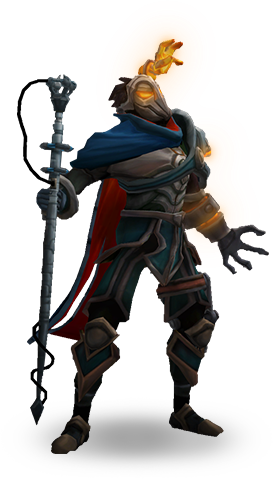
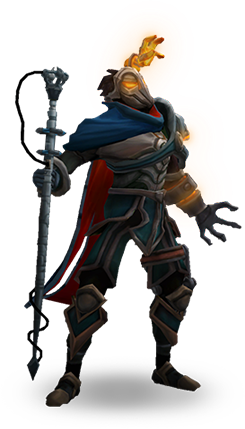
changed mid model size

diff --git a/public_html/bootstrap/css/games_league.css b/public_html/bootstrap/css/games_league.css
@@ -4638,7 +4638,7 @@ margin-top:20px;
     width:100%;
     position:relative;
 left:1px;
-    height:710px;
+    height:610px;
     white-space: nowrap;
     overflow:hidden;
         -webkit-transform: translate3d(0,0,0);
